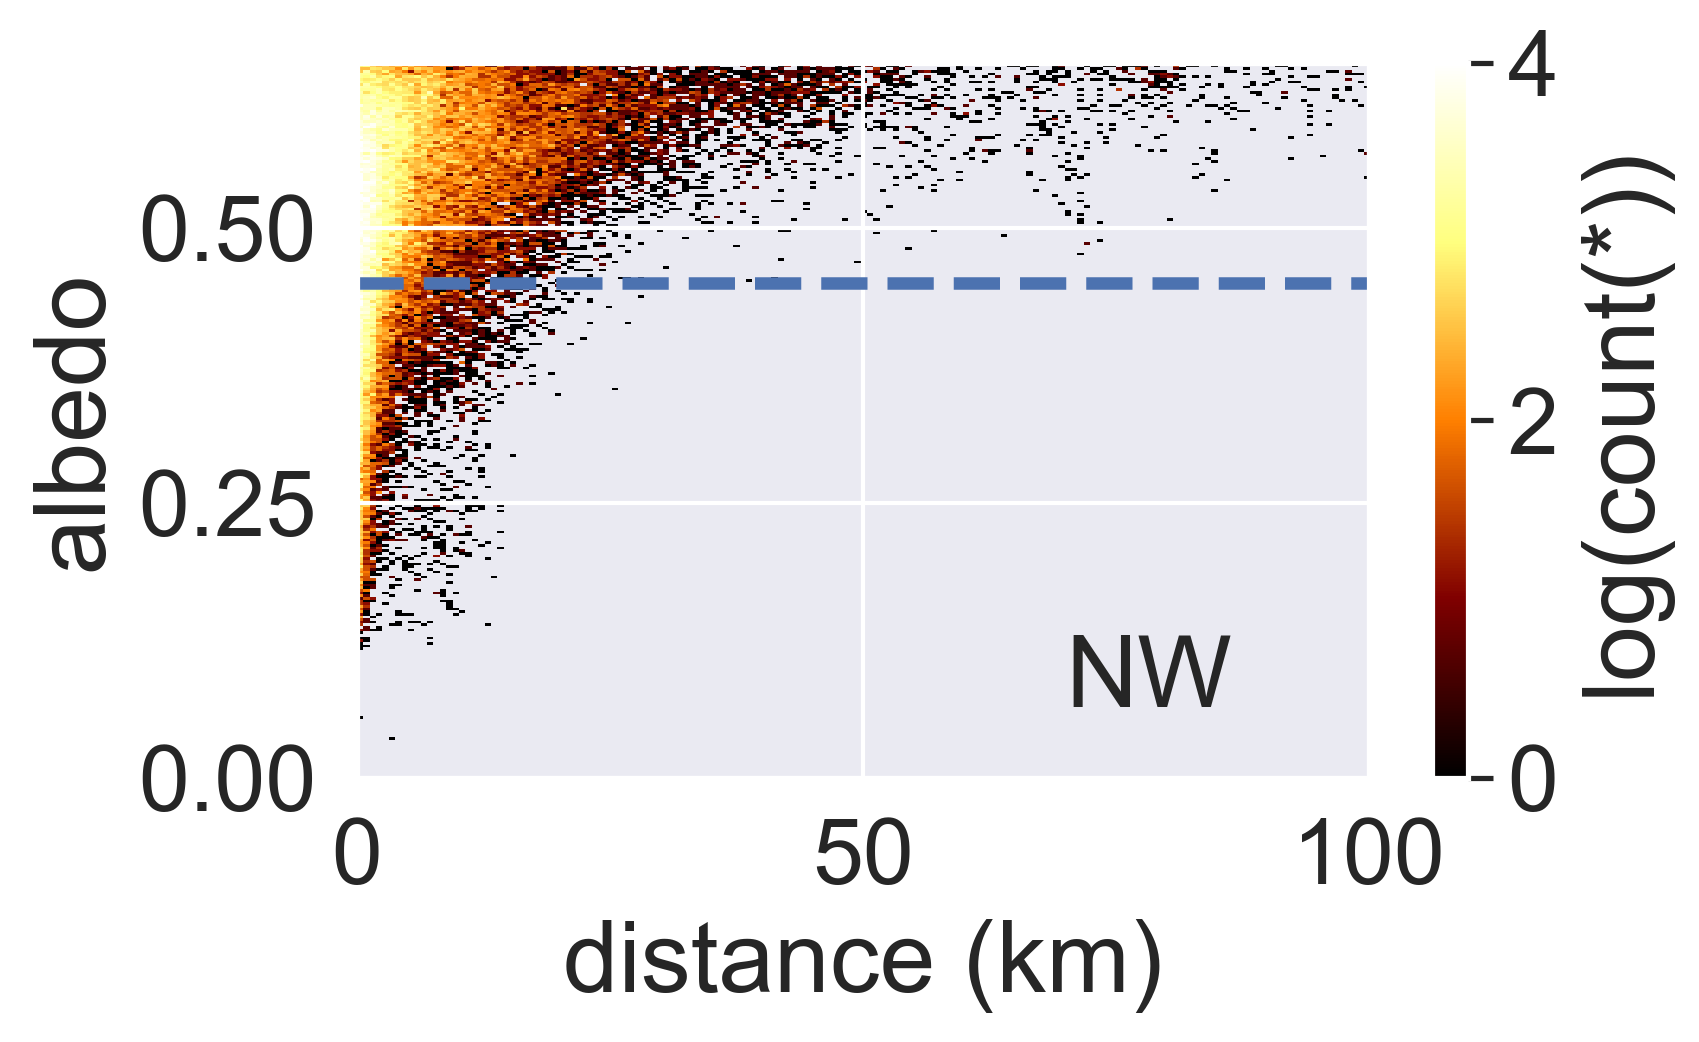
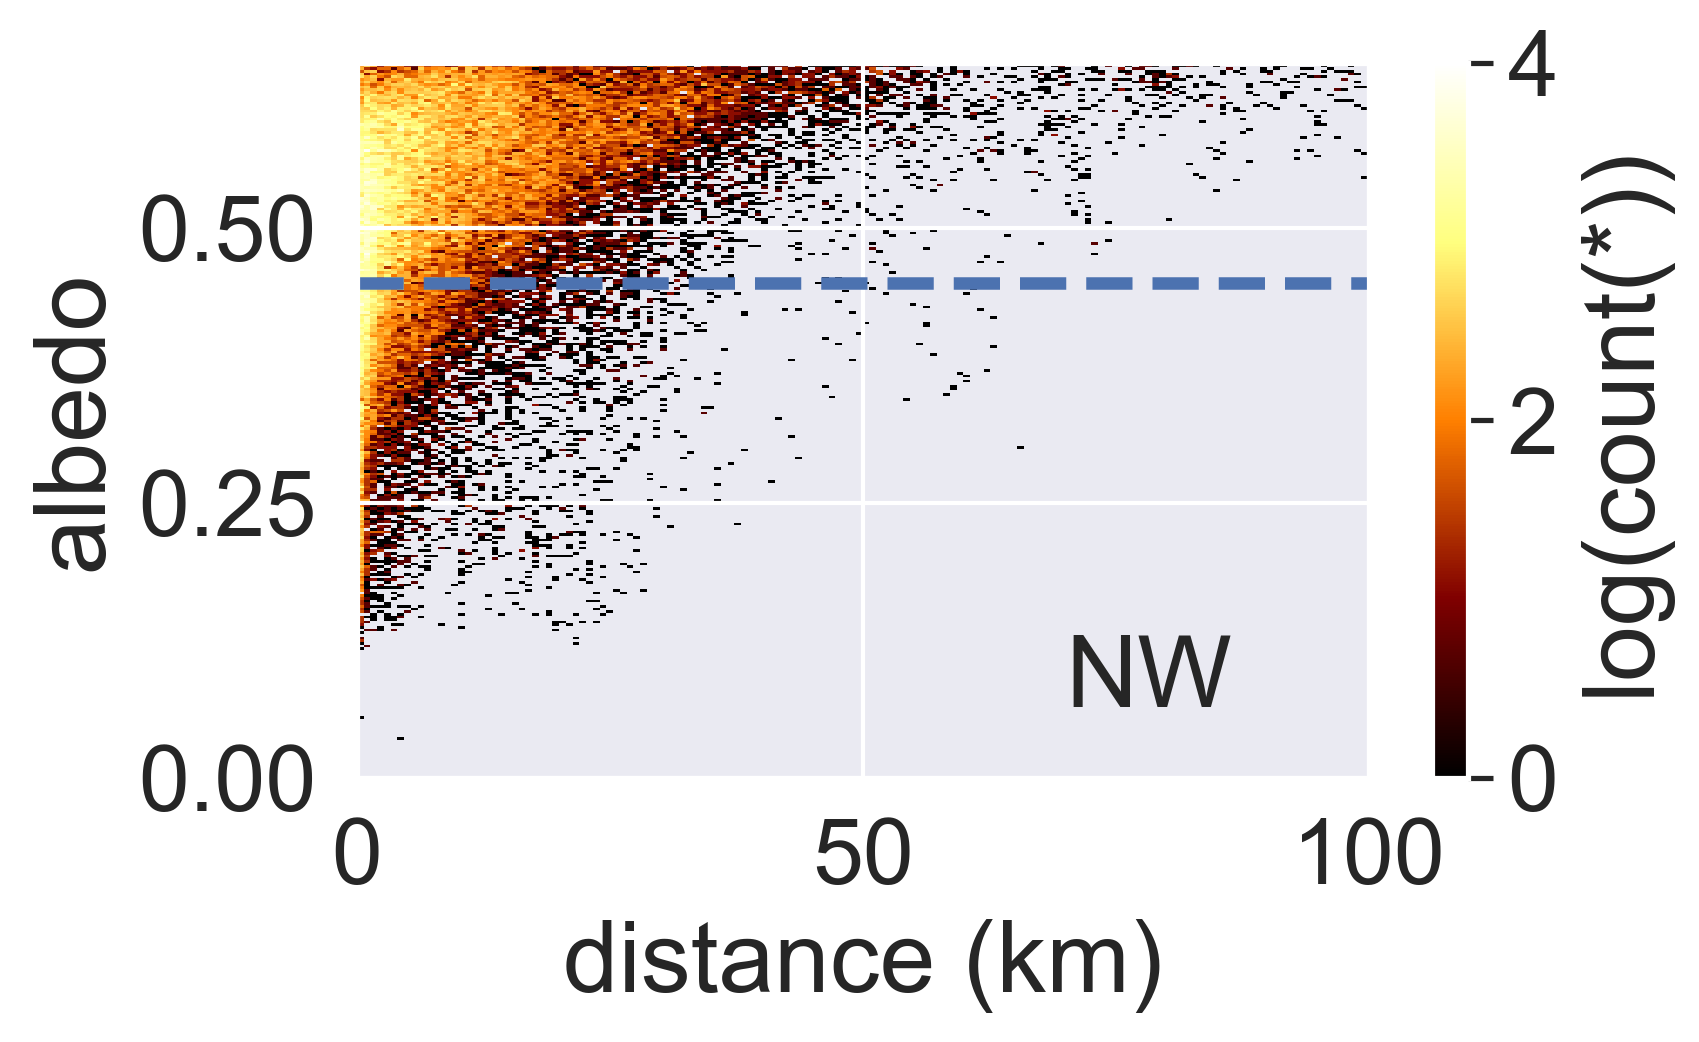
change ice margin to basin polygon

Changed region(s): [[0.1872, 0.0614, 0.8111, 0.6142], [0.3119, 0.5835, 0.3431, 0.6142]]

diff --git a/topoanalysis.py b/topoanalysis.py
@@ -146,7 +146,7 @@ dfvx = vx.from_pandas(df)
 
 fig, ax = plt.subplots(figsize=(6,5))
 # ax.annotate("SW", xy=(0.8, 0.8),  xycoords='axes fraction')
-ax.axvline(6.02642477064999, ls='--', linewidth=3)
+ax.axvline(9.57041446875, ls='--', linewidth=3)
 # ax.axhline(673.3710066, ls='--', linewidth=3)
 plt.xlim(0,90)
 plt.ylim(0,90)
@@ -156,7 +156,7 @@ fig.savefig("print/basin/SW_dark_dist_slop.png", dpi=300, bbox_inches="tight")
 
 fig, ax = plt.subplots(figsize=(6,5))
 # ax.annotate("SW", xy=(0.8, 0.1),  xycoords='axes fraction')
-ax.axvline(6.02642477064999, ls='--', linewidth=3)
+ax.axvline(9.57041446875, ls='--', linewidth=3)
 # ax.axhline(673.3710066, ls='--', linewidth=3)
 plt.xlim(0,90)
 plt.ylim(0,2000)
@@ -183,7 +183,7 @@ index = df.albedo < 0.45
 df["ice_class"] = "bare ice"
 df.ice_class[index] = "dark ice"
 
-index = df.distance> 6.02642477064999
+index = df.distance> 9.57041446875
 df["dist_class"] = 'margin'
 df.dist_class[index] = 'inland'
 
@@ -212,7 +212,7 @@ plt.yticks(rotation="vertical", ha="right")
 #%%
 # fig, ax = plt.subplots(figsize=(6,5))
 # # ax.annotate("SW", xy=(0.8, 0.1),  xycoords='axes fraction')
-# # ax.axvline(6.02642477064999, ls='--', linewidth=3)
+# # ax.axvline(9.57041446875, ls='--', linewidth=3)
 # plt.xlim(0,90)
 # plt.ylim(0,2000)
 # dfvx.viz.heatmap('distance', 'elevation', what=np.log(vx.stat.count()), show=True,
@@ -221,14 +221,14 @@ plt.yticks(rotation="vertical", ha="right")
 
 # fig, ax = plt.subplots(figsize=(6,5))
 # # ax.annotate("SW", xy=(0.8, 0.1),  xycoords='axes fraction')
-# ax.axvline(6.02642477064999, ls='--', linewidth=3)
+# ax.axvline(9.57041446875, ls='--', linewidth=3)
 # plt.xlim(0,90)
 # plt.ylim(0,90)
 # dfvx.viz.heatmap('distance', 'slope', what=np.log(vx.stat.count()), show=True,
 #                  vmin=0, vmax=6, xlabel="distance (km)", ylabel="slope (" + u'\N{DEGREE SIGN}' + ')')
 # fig.savefig("print/basin/SW_bare_dist_slop.png", dpi=300, bbox_inches="tight")
 
-# index = df.distance> 6.02642477064999
+# index = df.distance> 9.57041446875
 # df["dist_class"] = 'margin'
 # df.dist_class[index] = 'inland'
 # fig, ax = plt.subplots(figsize=(6,5))
